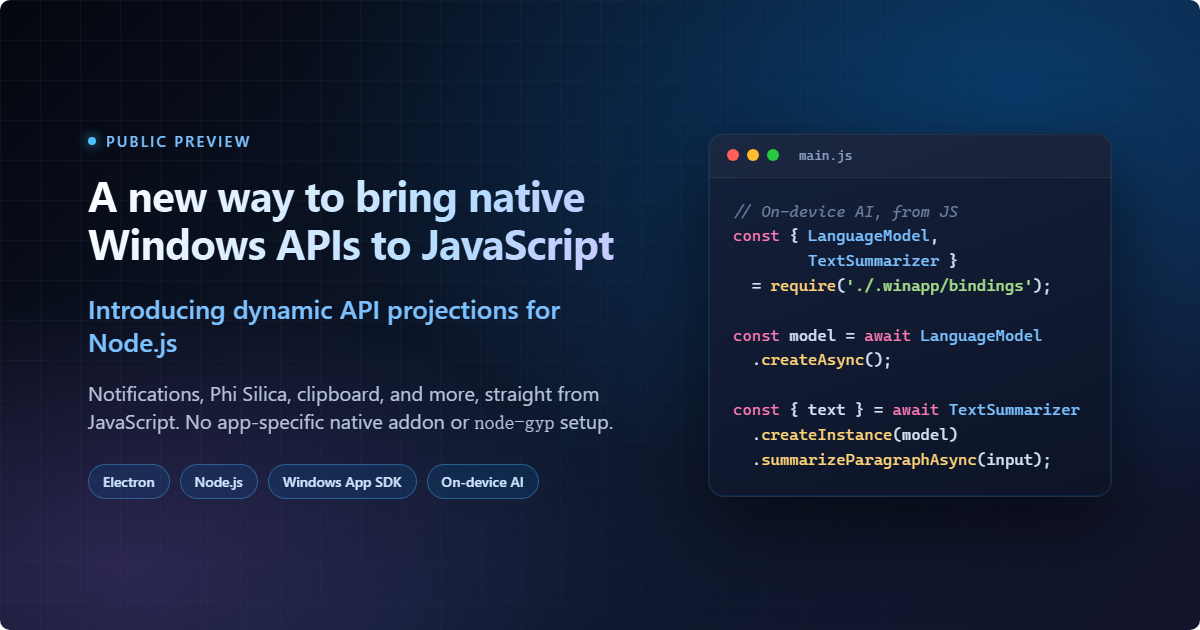
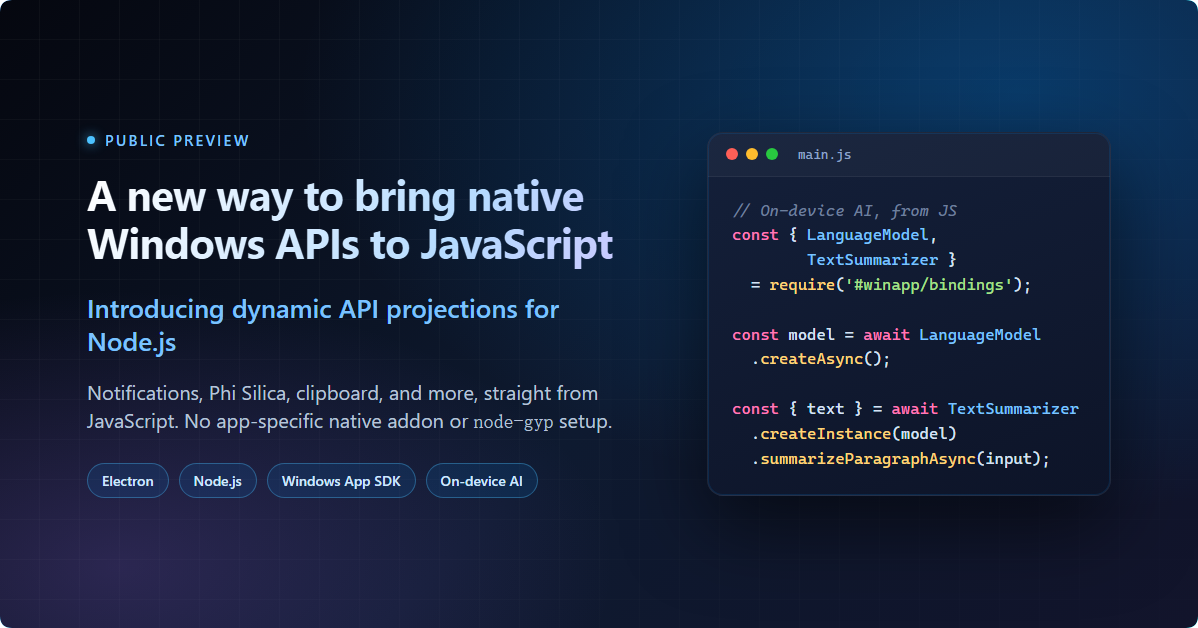
align the latest version

diff --git a/assets/blog-banner.html b/assets/blog-banner.html
@@ -227,7 +227,7 @@
 <pre><span class="c">// On-device AI, from JS</span>
 <span class="k">const</span> { <span class="t">LanguageModel</span>,
         <span class="t">TextSummarizer</span> }
-  = <span class="m">require</span>(<span class="s">'./.winapp/bindings'</span>);
+  = <span class="m">require</span>(<span class="s">'#winapp/bindings'</span>);
 
 <span class="k">const</span> model = <span class="k">await</span> <span class="t">LanguageModel</span>
   .<span class="m">createAsync</span>();

diff --git a/ifdef-blog-js-projections-draft.md b/ifdef-blog-js-projections-draft.md
@@ -56,7 +56,9 @@ npm install --save-dev @microsoft/winappcli
 npx winapp init . --use-defaults --add-js-bindings
 ```
 
-The WinApp CLI sets up the manifest and SDKs, adds `@microsoft/dynwinrt` + `@microsoft/dynwinrt-codegen` to your `package.json`, and generates JavaScript wrappers and TypeScript types for the supported Windows App SDK APIs in `.winapp/bindings/`. It also writes a `winapp.jsBindings` config block to your `package.json` where you can extend the generated surface with additional namespaces or `.winmd` files, including metadata from your own WinRT components. See the [file picker guide](https://github.com/microsoft/winappCli/blob/main/docs/guides/electron/js-file-picker.md) for a detailed configuration example.
+The WinApp CLI sets up the manifest and SDKs, adds `@microsoft/dynwinrt` + `@microsoft/dynwinrt-codegen` to your `package.json`, and generates JavaScript wrappers and TypeScript types for the supported Windows App SDK APIs in `.winapp/bindings/`. It also writes a `winapp.jsBindings` config block where you can extend the generated surface with additional namespaces or `.winmd` files, including metadata from your own WinRT components.
+
+Setup also adds `#winapp/bindings` and `#winapp/bindings/*` to the `package.json#imports` map. The aliases select the generated CommonJS, ES module, and TypeScript declaration entry points, so imports stay the same no matter which source file uses them. See the [file picker guide](https://github.com/microsoft/winappCli/blob/main/docs/guides/electron/js-file-picker.md) for a detailed configuration example.
 
 Both walkthroughs below (`AppNotificationManager` and Phi Silica) use APIs that require package identity. To unblock those APIs during development, grant your Electron dev build a temporary identity:
 
@@ -75,7 +77,7 @@ const {
   AppNotificationBuilder,
   AppNotificationManager,
   AppNotificationProgressBar,
-} = require('./.winapp/bindings/index.js');
+} = require('#winapp/bindings');
 
 const progress = AppNotificationProgressBar
   .create()
@@ -106,28 +108,38 @@ You can also add on-device AI to Electron directly from your app's JavaScript, u
 ```js
 const {
   AIFeatureReadyState, LanguageModel, TextSummarizer,
-} = require('./.winapp/bindings/index.js');
+} = require('#winapp/bindings');
 
-if (LanguageModel.getReadyState() === AIFeatureReadyState.NotReady) {
-  await LanguageModel.ensureReadyAsync();
+async function summarize() {
+  const readyState = LanguageModel.getReadyState();
+  if (readyState !== AIFeatureReadyState.Ready &&
+      readyState !== AIFeatureReadyState.NotReady) {
+    console.log('Phi Silica is not available on this device.');
+    return;
+  }
+  if (readyState === AIFeatureReadyState.NotReady) {
+    await LanguageModel.ensureReadyAsync();
+  }
+
+  const model = await LanguageModel.createAsync();
+  try {
+    const op = TextSummarizer
+      .createInstance(model)
+      .summarizeParagraphAsync('Some long paragraph...');
+
+    // Stream partial output as the model generates it
+    op.progress((partial) => {
+      process.stdout.write(partial);
+    });
+
+    const result = await op;
+    console.log('\nDone:', result.text);
+  } finally {
+    model.close();
+  }
 }
 
-const model = await LanguageModel.createAsync();
-try {
-  const op = TextSummarizer
-    .createInstance(model)
-    .summarizeParagraphAsync('Some long paragraph...');
-
-  // Stream partial output as the model generates it
-  op.progress((partial) => {
-    process.stdout.write(partial);
-  });
-
-  const result = await op;
-  console.log('\nDone:', result.text);
-} finally {
-  model.close();
-}
+summarize().catch(console.error);
 ```
 
 Before running, add this restricted capability inside the existing `<Capabilities>` element in `Package.appxmanifest`:
@@ -182,7 +194,7 @@ const {
   Clipboard,
   DataPackage,
   HtmlFormatHelper,
-} = require('./.winapp/bindings/index.js');
+} = require('#winapp/bindings');
 
 const html = HtmlFormatHelper.createHtmlFormat(`
   <h2>Hello from Electron</h2>
@@ -235,6 +247,9 @@ npx winapp init . --use-defaults --add-js-bindings
 
 # winapp run needs an .exe inside the project. Alias .local-node to your Node install.
 New-Item -ItemType Junction -Path .\.local-node -Target (Split-Path (Get-Command node).Source)
+
+# --with-alias preserves stdout/stderr, so add an execution alias once.
+npx winapp manifest add-alias --name mynode.exe
 ```
 
 We'll call Phi Silica again from Node.js, so add the same `systemAIModels` capability to `Package.appxmanifest`. Then in `app.js`, use `TextRewriter` to polish a sentence:
@@ -248,10 +263,15 @@ const {
   LanguageModel,
   TextRewriter,
   TextRewriteTone,
-} = require('./.winapp/bindings/index.js');
+} = require('#winapp/bindings');
 
 async function main() {
   const readyState = LanguageModel.getReadyState();
+  if (readyState !== AIFeatureReadyState.Ready &&
+      readyState !== AIFeatureReadyState.NotReady) {
+    console.log('Phi Silica is not available on this device.');
+    return;
+  }
   if (readyState === AIFeatureReadyState.NotReady) {
     await LanguageModel.ensureReadyAsync();
   }
@@ -261,7 +281,7 @@ async function main() {
     const rewriter = TextRewriter.createInstance(model);
     const result = await rewriter.rewriteAsync(
       'WinApp CLI makes it easier to use Windows APIs from JavaScript.',
-      TextRewriteTone.Professional
+      TextRewriteTone.Formal
     );
     console.log(result.text);
   } finally {
@@ -269,7 +289,10 @@ async function main() {
   }
 }
 
-main().catch(console.error);
+main().catch((error) => {
+  console.error(error);
+  process.exitCode = 1;
+});
 ```
 
 Run the script under a registered package identity in one shot:
@@ -278,7 +301,7 @@ Run the script under a registered package identity in one shot:
 npx winapp run . --exe .local-node\node.exe --with-alias --args "app.js" --unregister-on-exit
 ```
 
-The rewritten text prints straight to your terminal. Under the hood, `winapp run` registers the loose-layout package, launches `.local-node\node.exe app.js` with package identity and the Windows App SDK runtime graph, and unregisters on exit (`--unregister-on-exit`). `--with-alias` uses the manifest's execution alias so stdout streams back to the launching terminal (without it, packaged apps run detached).
+The rewritten text prints straight to your terminal. Under the hood, `winapp run` registers the loose-layout package, launches `.local-node\node.exe app.js` with package identity and the Windows App SDK runtime graph, and unregisters on exit (`--unregister-on-exit`). `--with-alias` uses the execution alias added above so stdout streams back to the launching terminal (without it, packaged apps run detached).
 
 For an iteration-friendly variant using a persistent execution alias (`mynode.exe app.js` from any terminal) and packaging notes, see the full [Plain Node.js dev-mode guide](https://github.com/microsoft/dynwinrt/blob/main/docs/guides/node/dev-mode.md).
 
@@ -286,7 +309,7 @@ For an iteration-friendly variant using a persistent execution alias (`mynode.ex
 
 `dynwinrt-codegen` runs during `winapp init` / `restore` / `generate-bindings` and turns `.winmd` metadata into JavaScript wrappers with TypeScript types. No native code is generated per class. At execution time, `@microsoft/dynwinrt` invokes the underlying COM vtables directly and adapts WinRT conventions to JavaScript. For example, it converts strings and errors, makes asynchronous operations awaitable with cancellation support and progress when the API provides it, and projects generic collections, structs, enums, and event delegates.
 
-The projection targets non-UI Windows Runtime APIs such as AI, storage, notifications, networking, and similar system capabilities, not UI hosting like XAML / WinUI or WebView2.
+The projection primarily targets data-style Windows Runtime APIs such as AI, storage, notifications, networking, and similar system capabilities. The same runtime can also host WinUI 3 directly from a plain Node.js process for controlled native UI scenarios; see the [`node-winui` sample](https://github.com/microsoft/winappCli/tree/main/samples/node-winui). WebView2 is not part of the generated projection surface.
 
 For the full design, see [`dynwinrt/design.md`](https://github.com/microsoft/dynwinrt/blob/main/design.md).
 
